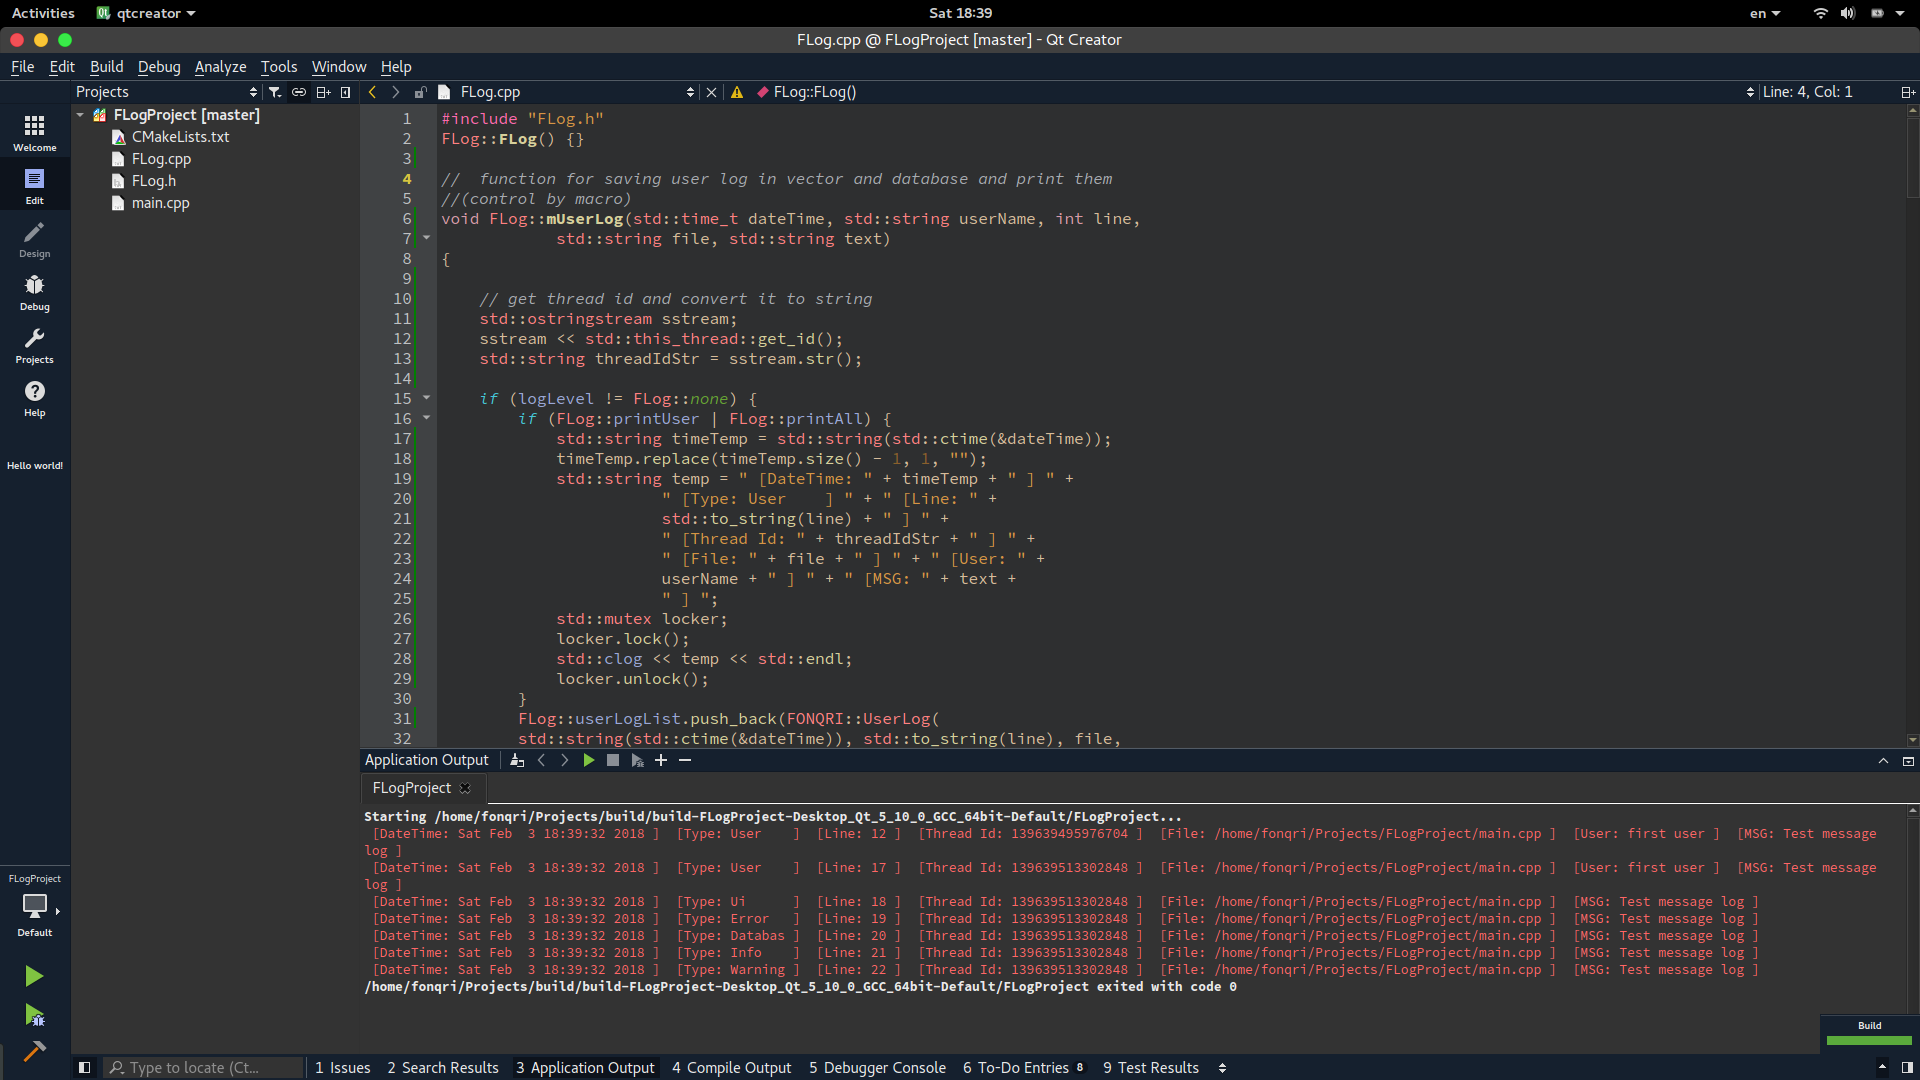
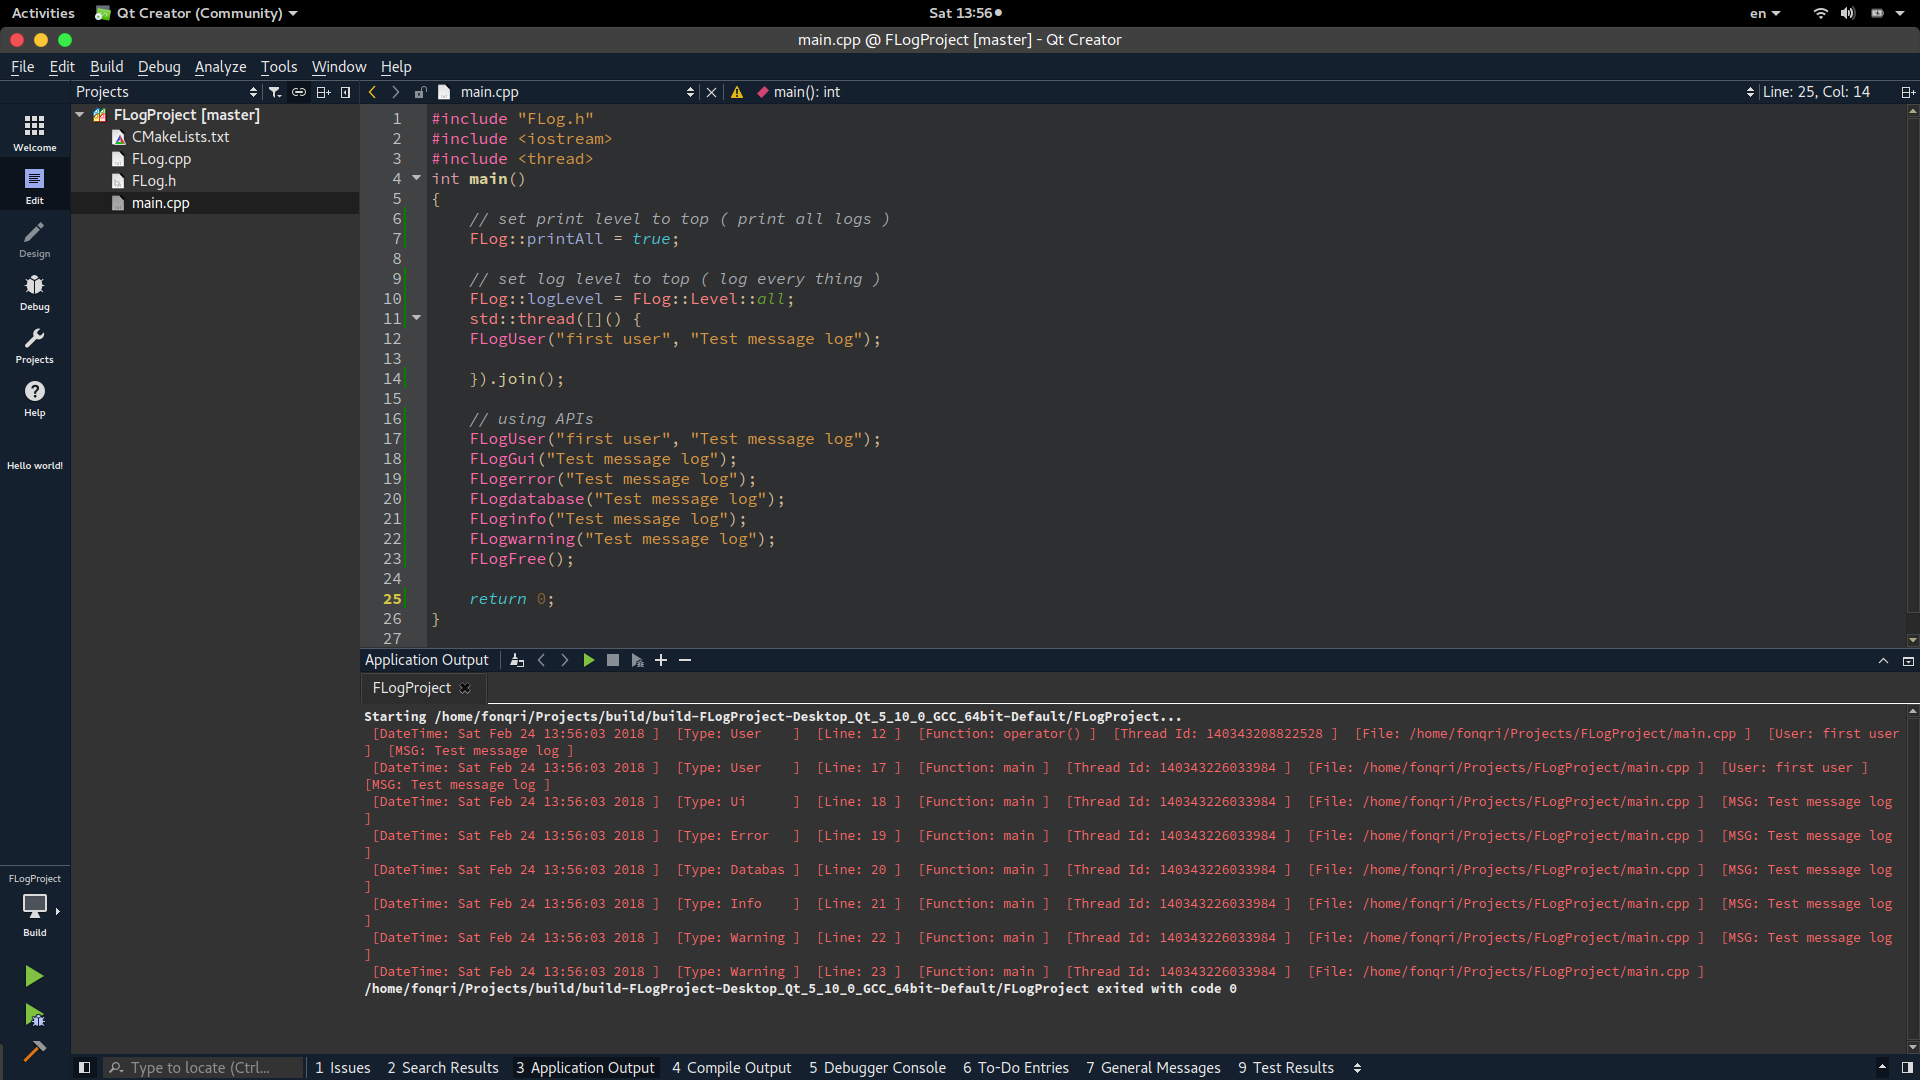
updated 0.4

diff --git a/main.cpp b/main.cpp
@@ -20,6 +20,7 @@ int main()
 	FLogdatabase("Test message log");
 	FLoginfo("Test message log");
 	FLogwarning("Test message log");
+	FLogFree();
 
 	return 0;
 }
